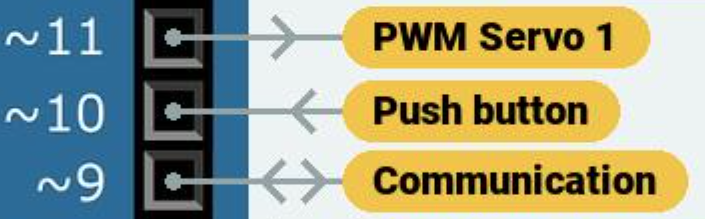
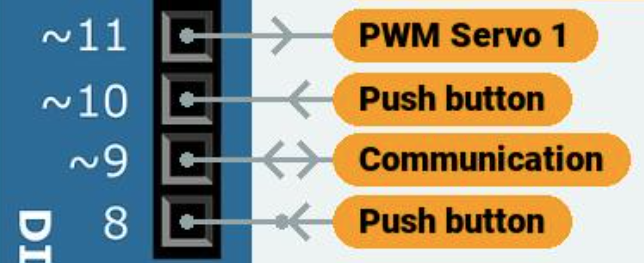
add: input pullup example

diff --git a/README.md b/README.md
@@ -86,27 +86,32 @@ As configurações de tamanho guardam cada tamanho de cada elemento, como o tama
 ## Conexões
 As conexões também são feitas no arquivo JSON, assim como o exemplo abaixo.
 - `Name`: Nome da conexão (que aparece dentro do oblongo)
-- `InOut`: Tipo de conexão (entrada ou saída ou entrada e saída)
+- `InOut`: Tipo de conexão (entrada, entrada com pullup, saída ou entrada e saída)
 - `Type`: Tipo da conexão (que define a cor do oblongo e do texto)
 ```json
 "Connections": {
-    "D11":{
+    "D11": {
         "Name": "PWM Servo 1",
-        "InOut": "out",
-        "Type": "Default",
+        "InOut": "Output",
+        "Type": "Default"
     },
-    "D10":{
+    "D10": {
         "Name": "Push button",
-        "InOut": "in",
-        "Type": "Default",
+        "InOut": "Input",
+        "Type": "Default"
     },
-    "D9":{
+    "D9": {
         "Name": "Communication",
-        "InOut": "in_out",
-        "Type": "Default",
+        "InOut": "InputOutput",
+        "Type": "Default"
+    },
+    "D8": {
+        "Name": "Push button",
+        "InOut": "InputPullup",
+        "Type": "Default"
     }
 }
 ```
-Esse exemplo cria 3 conexões no pino D11, D10 e D9, respectivamente.
-![Connections](examples/connections.png)
 
+Esse exemplo cria 3 conexões no pino D11, D10 e D9, respectivamente.
+![Connections](./examples/connections.png)
